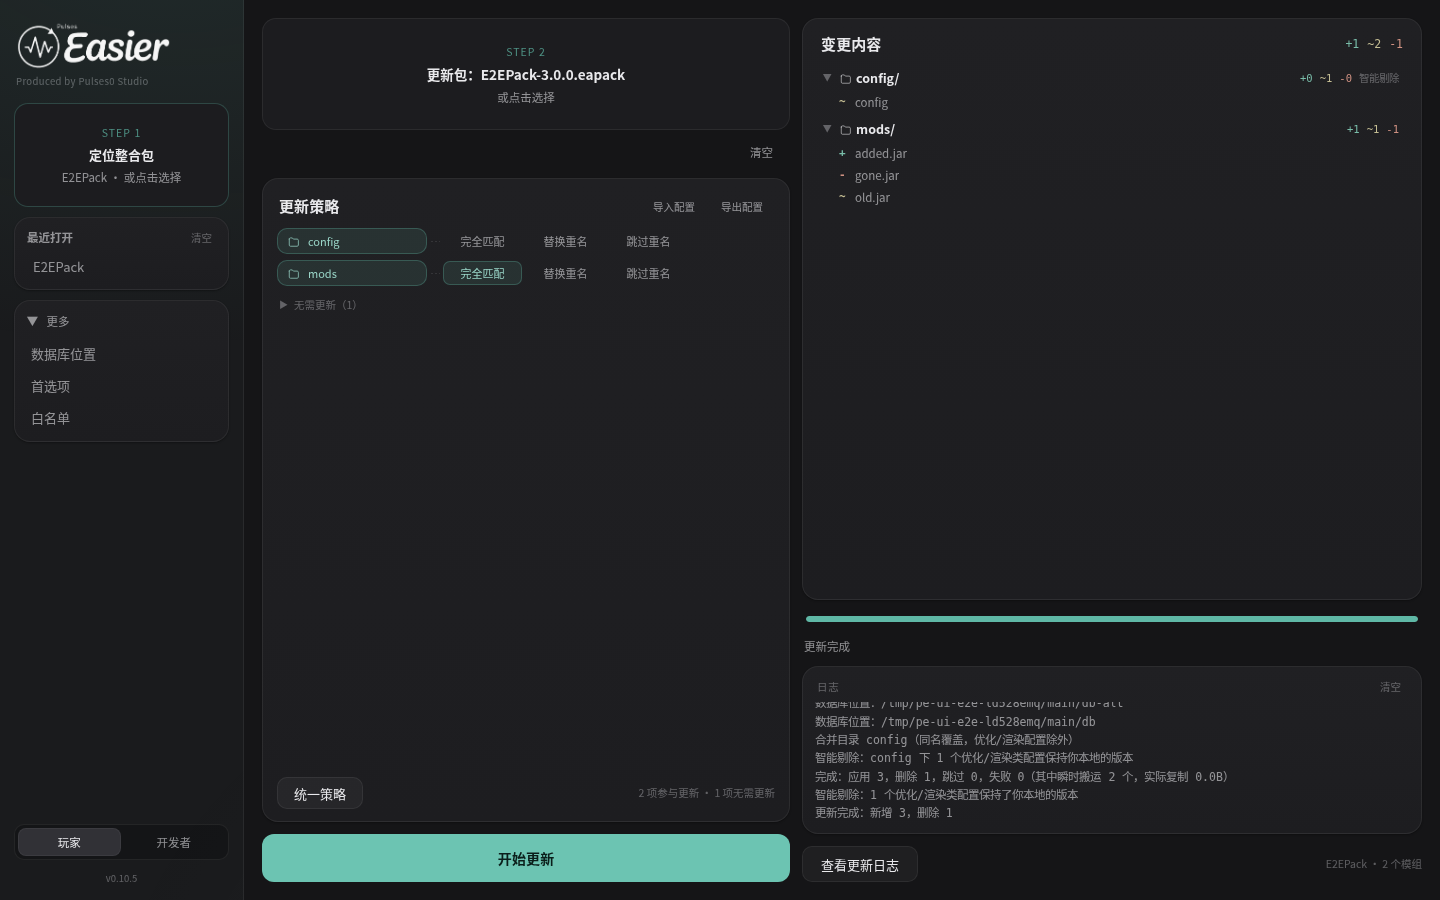
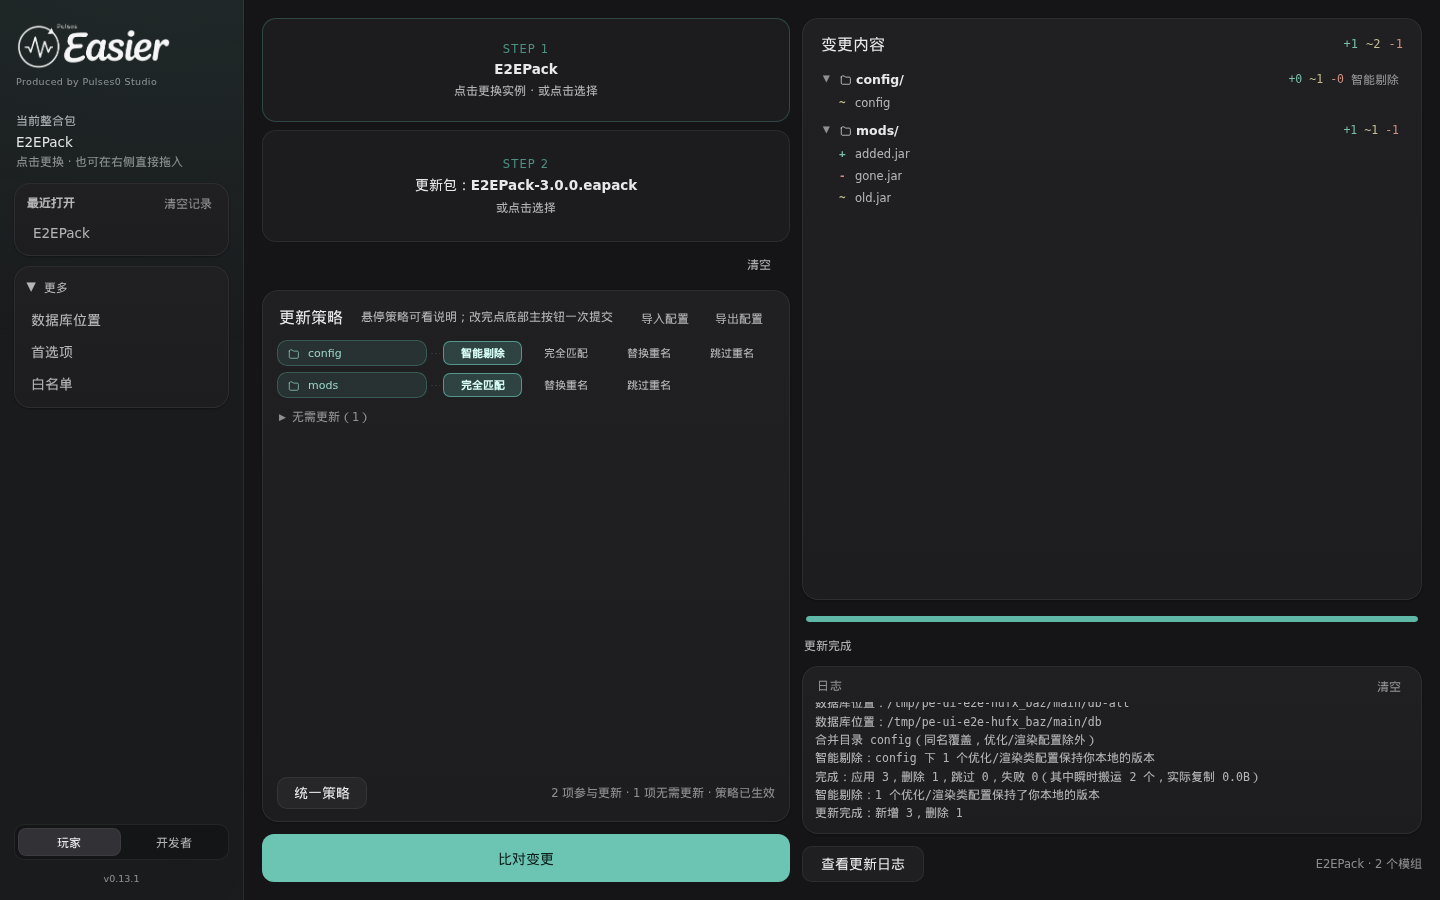
e2e：适配玩家 STEP1/自动比对/停止下载；主按钮单次提交策略
- 玩家端恢复唯一的 STEP1 定位卡（侧栏收成当前整合包）
- 停止下载保留确认；端到端脚本处理确认框
- 策略草稿由底部主按钮一次提交，下载/续传脚本同步

diff --git a/web/src/e2e/harness.ts b/web/src/e2e/harness.ts
@@ -498,7 +498,6 @@ async function basicSuite(fx: BasicFixture, work: string): Promise<void> {
     '更新包信息（含更新日志）', JSON.stringify(snap?.update))
 
   // ---- 3. 开始更新（比对）----
-  await clickText('开始更新', { exact: true })
   // 「变更内容」这张卡片是一直在的，不能拿它当"扫描完成"的信号；
   // 真正的判据是 phase 回 idle 且策略表已有行（见 waitScanDone）。
   snap = await waitScanDone()
@@ -661,7 +660,7 @@ async function basicSuite(fx: BasicFixture, work: string): Promise<void> {
     '数据库位置已还原', dbBefore)
 
   // ---- 应用 + 磁盘为准（界面说完成不算）----
-  await clickText('确认更新', { exact: true })
+  await clickText('写入更新', { exact: false })
   need(await waitText(/更新完成|已应用/, 240000), '更新应用完成')
   await sleep(400)
   const report = (await flowSnap())?.report
@@ -686,7 +685,7 @@ async function basicSuite(fx: BasicFixture, work: string): Promise<void> {
     return
   }
   await clickText('开发者', { exact: true })
-  need(await waitText(/开始制作更新包/), '切到开发者视图')
+  need(await waitText(/第一步 · 选择导出内容/), '切到开发者视图')
   const waitDevIdle = () => waitFor(async () => {
     const d = await devSnap()
     return d && d.phase !== 'loading' ? d : null
@@ -747,6 +746,8 @@ async function basicSuite(fx: BasicFixture, work: string): Promise<void> {
     return el && el.value === 'E2EExport.eapack' ? el.value : null
   }, 10000)
   check(!!filled, '输出文件名已回填', outFile)
+  await clickText('下一步：设置策略', { exact: false })
+  need(await waitText(/第二步 · 更新策略与确认/), '进入策略确认')
   await clickText('开始制作更新包', { exact: true })
   need(await waitText(/已生成：/, 180000), '开发者导出完成（完成态可见）')
   const exportedProbe = await probe([outFile])
@@ -775,7 +776,6 @@ async function downloadSuite(dl: DownloadFixture): Promise<void> {
   setPicks([dl.update])
   await clickStep('STEP 2')
   need(await waitText(/E2EPackDL-a\.eapack/), '导入更新包（带 URL 文件）')
-  await clickText('开始更新', { exact: true })
   need(!!(await waitScanDone()), '比对完成（真下载）')
   await waitText(/e2e-big\.jar/, 30000)
   const snap = await flowSnap()
@@ -786,7 +786,7 @@ async function downloadSuite(dl: DownloadFixture): Promise<void> {
   // ---- H：确认更新 → 边下边采样 ----
   // 同一页里跑过基本流程，"更新完成"可能还挂在提示条上：只认**新增的**完成提示。
   const doneBefore = (bodyText().match(/更新完成/g) ?? []).length
-  await clickText('确认更新', { exact: true })
+  await clickText('写入更新', { exact: false })
   const seen = {
     barMid: 0,
     slots: new Set<string>(),
@@ -855,15 +855,14 @@ async function downloadSuite(dl: DownloadFixture): Promise<void> {
   setPicks([dl.abortUpdate])
   await clickStep('STEP 2')
   need(await waitText(/E2EPackDL-b\.eapack/), '导入续传用更新包')
-  await clickText('开始更新', { exact: true })
   need(!!(await waitScanDone()), '比对完成（续传包）')
   // 上一轮的变更树可能还没被替换掉：等这一轮独有的条目出现
   need(await waitText(/e2e-abort-big\.jar/, 30000), '变更列表已换成续传包内容')
-  await clickText('确认更新', { exact: true })
+  await clickText('写入更新', { exact: false })
   // 下载态的唯一可靠信号：主按钮变成「取消下载」（界面必须能取消）
-  need(!!(await waitFor(() => buttonLabels().includes('取消下载'), 20000)),
-    '进入下载态（主按钮变成「取消下载」）')
-  await clickText('取消下载', { exact: true })
+  need(!!(await waitFor(() => buttonLabels().includes('停止下载'), 20000)),
+    '进入下载态（主按钮变成「停止下载」）')
+  await clickText('停止下载', { exact: true })
   need(await waitText(/已请求中止/, 10000), '中止请求已送到后端')
   const stopped = await waitFor(async () => {
     const phase = (await flowSnap())?.phase
@@ -901,6 +900,8 @@ async function downloadSuite(dl: DownloadFixture): Promise<void> {
 /* ------------------------------------------------------------------ */
 
 export async function start(): Promise<void> {
+  // 端到端里所有确认框都按“确认”处理（浏览器脚本无法弹原生框）
+  window.confirm = () => true
   trapErrors()
   statusBox()
   startedAt = Date.now()

diff --git a/web/src/components/PlayerView.tsx b/web/src/components/PlayerView.tsx
@@ -2,6 +2,7 @@ import { useEffect, useRef, useState } from 'react'
 import { invoke } from '@/bridge'
 import { AnimatePresence, motion } from 'framer-motion'
 import { pickPath } from '@/bridge'
+import type { AppState } from '@/bridge/protocol'
 import { useApp } from '@/store/app'
 import { usePlayer } from '@/store/player'
 import { useUi } from '@/store/ui'
@@ -57,7 +58,20 @@ export default function PlayerView() {
   const toggleSlots = usePlayer((s) => s.toggleSlots)
   const setHint = usePlayer((s) => s.setHint)
   const [showTree, setShowTree] = useState(true)
+  const setState = useApp((s) => s.setState)
   const strategyCommit = useRef<() => Promise<void>>(async () => {})
+
+  const onLocatePack = async () => {
+    if (!connected) return
+    try {
+      const path = await pickPath('file', '')
+      if (!path) return
+      const res = await invoke<{ state: AppState }>('app.pick_pack', { path })
+      if (res.state) setState(res.state)
+    } catch (err) {
+      pushToast(err instanceof Error ? err.message : '定位失败', 'error')
+    }
+  }
 
   const onPickUpdate = async () => {
     if (!connected) return
@@ -121,6 +135,15 @@ export default function PlayerView() {
     <div className={styles.page}>
       <section className={styles.left}>
         <div className={styles.dropWrap}>
+          <DropZone
+            step="STEP 1"
+            title={pack ? pack.name : '定位整合包'}
+            subtitle={pack ? '点击更换实例' : '实例目录 / 整合包文件'}
+            hint={pack ? undefined : '或点击选择'}
+            height={104}
+            onPick={onLocatePack}
+            ariaLabel="玩家端定位整合包"
+          />
           <DropZone
             step="STEP 2"
             title={updatePack ? `更新包：${updatePack.name}` : '拖入更新包'}

diff --git a/web/src/components/MainButton.tsx b/web/src/components/MainButton.tsx
@@ -88,7 +88,11 @@ export default function MainButton({ onScanToggle, beforeConfirm }: Props) {
       }
       if (btn === 'confirm') {
         setHint('正在应用策略并写入…')
-        await beforeConfirm?.()
+        try {
+          await beforeConfirm?.()
+        } catch (err) {
+          pushToast(err instanceof Error ? err.message : '策略提交失败', 'error')
+        }
         await call('update.apply')
         return
       }

diff --git a/web/src/components/StrategyCard.tsx b/web/src/components/StrategyCard.tsx
@@ -188,7 +188,7 @@ export default function StrategyCard({ rows, onToggle, onStrategy, compact, regi
             {disabled.length > 0 ? ` · ${disabled.length} 项已禁用` : ''}
             {dirtyNames.length > 0
               ? ` · ${dirtyNames.length} 项待应用（点底部主按钮一次提交）`
-              : ' · 策略已应用'}
+              : ' · 策略已生效'}
           </span>
         </div>
       )}
